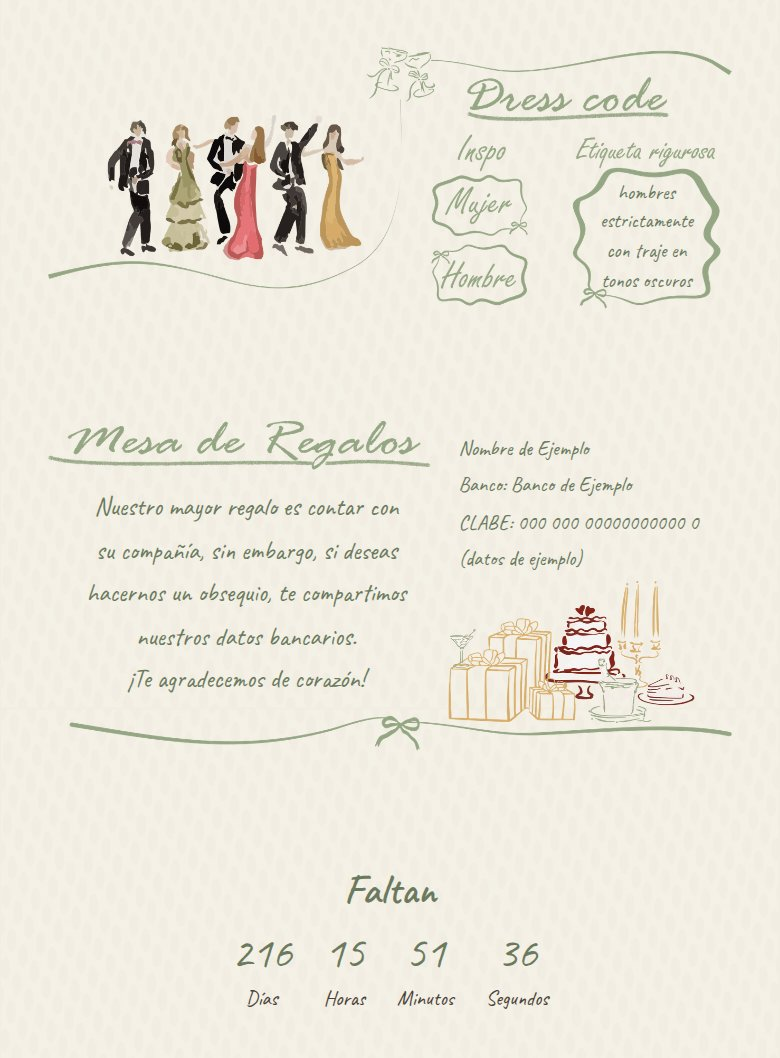
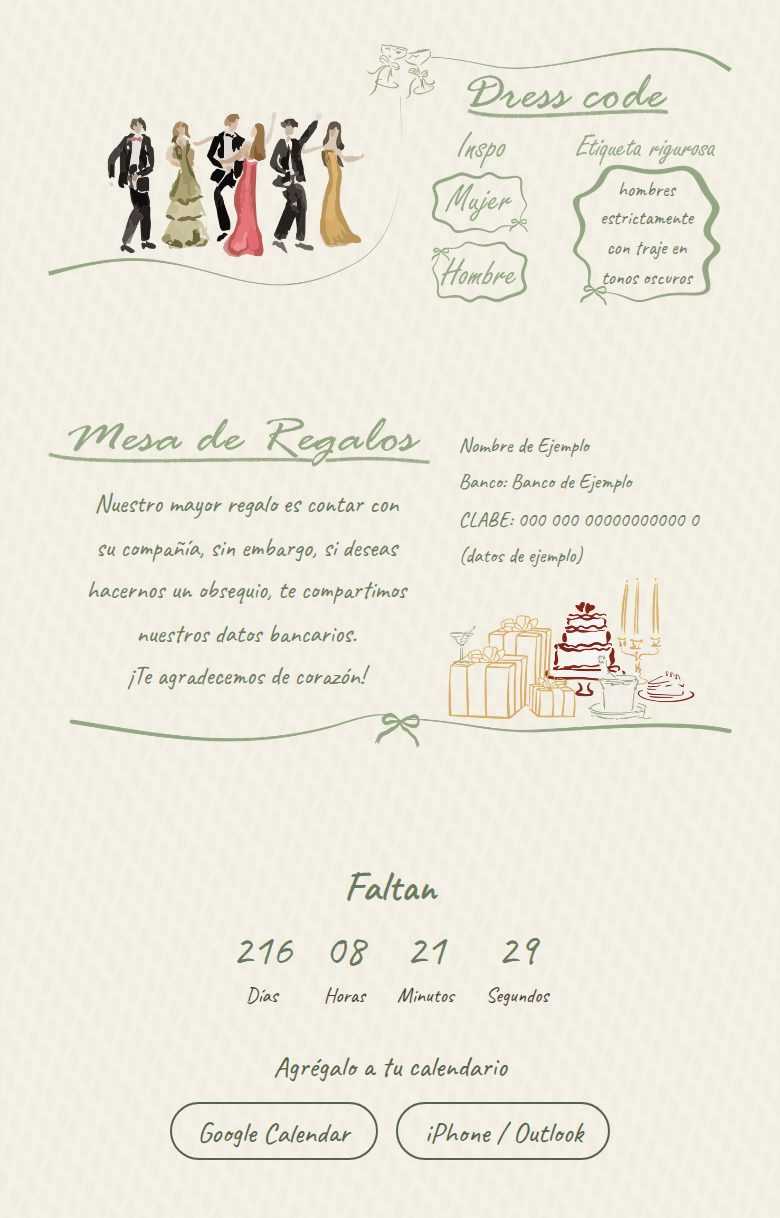
[ADD] Add-to-calendar links under the countdown
- The build plugin turns the config into one event (from date, lasting
  the new calendar.hours, at the ceremony venue, with both venues and
  the invitation link) and makes a Google Calendar link and boda.ics,
  which the dev server serves and the build writes to dist/: a real
  text/calendar file is what iPhones offer to add
- The .ics follows RFC 5545: escaped text, CRLF line endings and lines
  folded at 75 bytes without splitting accented characters
- The links hide along with the countdown once the day arrives
- Tests for the link, the file and the dev server; README, with the
  dress code, gifts and countdown screenshot retaken to show the links

diff --git a/plugins/vite-plugin-invitation.js b/plugins/vite-plugin-invitation.js
@@ -9,10 +9,15 @@
  *   in attributes         newlines collapse to spaces, arrays join with ", "
  *
  * An unknown placeholder fails the build instead of showing "{{ … }}" to guests.
+ *
+ * It also makes the "Agregar al calendario" event: a Google Calendar link for the page,
+ * and an .ics file (iPhone, Outlook) that the dev server serves and the build writes to
+ * dist/, as a real file served as text/calendar is what iPhones offer to add.
  */
 
 const PLACEHOLDER = /\{\{\s*([\w.]+)\s*\}\}/g;
 const TAG = /<[^>]+>/g;
+const CALENDAR_FILE = 'boda.ics';
 
 const MONTHS = [
 	'Enero',
@@ -75,17 +80,129 @@ function initial(name) {
 // Values derived from the config, so index.html can stay free of logic.
 function buildContext(config) {
 	const { partner1, partner2, joiner } = config.couple;
+	const site = { ...config.site, url: config.site.url.replace(/\/+$/, '') };
+	const names = `${partner1} ${joiner} ${partner2}`;
+	const event = calendarEvent(config, site.url, names);
 
 	return {
 		...config,
-		site: { ...config.site, url: config.site.url.replace(/\/+$/, '') },
+		site,
 		couple: {
 			...config.couple,
-			names: `${partner1} ${joiner} ${partner2}`,
+			names,
 			initials: { partner1: initial(partner1), partner2: initial(partner2) },
 		},
 		date: dateParts(config.date),
+		calendar: {
+			...config.calendar,
+			google: googleCalendarUrl(event),
+			// The site's base path comes from site.url, as in vite.config.js.
+			ics: `${new URL(site.url).pathname.replace(/\/?$/, '/')}${CALENDAR_FILE}`,
+		},
+		event,
 	};
+}
+
+// ---- Calendar ----
+// One event from the ceremony start, lasting calendar.hours, at the ceremony venue, with
+// both venues and the invitation link in its description.
+function calendarEvent(config, siteUrl, names) {
+	const hours = Number(config.calendar?.hours);
+
+	if (!(hours > 0)) {
+		throw new Error(
+			'[invitation] "calendar.hours" must be how long the celebration lasts, in hours (e.g. 8).',
+		);
+	}
+
+	const oneLine = (text) => String(text).replaceAll('\n', ' ');
+	const start = new Date(config.date);
+	const { ceremony, reception } = config;
+
+	return {
+		title: `Boda de ${names}`,
+		start,
+		end: new Date(start.getTime() + hours * 60 * 60 * 1000),
+		location: oneLine(ceremony.venue),
+		details: [
+			`Ceremonia: ${oneLine(ceremony.venue)}, ${ceremony.time}`,
+			ceremony.mapsUrl,
+			'',
+			`Recepción: ${oneLine(reception.venue)}, ${reception.time}`,
+			reception.mapsUrl,
+			'',
+			`Invitación: ${siteUrl}/`,
+		].join('\n'),
+		url: `${siteUrl}/`,
+		uid: `boda-${utcStamp(start)}@${new URL(siteUrl).hostname}`,
+	};
+}
+
+// 2027-05-15T17:00:00-06:00 -> 20270515T230000Z, the UTC form both formats accept.
+function utcStamp(date) {
+	return date
+		.toISOString()
+		.replace(/[-:]/g, '')
+		.replace(/\.\d{3}/, '');
+}
+
+function googleCalendarUrl(event) {
+	const params = {
+		action: 'TEMPLATE',
+		text: event.title,
+		dates: `${utcStamp(event.start)}/${utcStamp(event.end)}`,
+		details: event.details,
+		location: event.location,
+	};
+	const query = Object.entries(params)
+		.map(([key, value]) => `${key}=${encodeURIComponent(value)}`)
+		.join('&');
+
+	return `https://calendar.google.com/calendar/render?${query}`;
+}
+
+// An iCalendar (RFC 5545) file with the event, CRLF line endings included.
+function icsFile(event, now = new Date()) {
+	// Text values escape backslashes, semicolons, commas and line breaks.
+	const text = (value) => value.replace(/[\\;,]/g, '\\$&').replaceAll('\n', '\\n');
+	const lines = [
+		'BEGIN:VCALENDAR',
+		'VERSION:2.0',
+		'PRODID:-//wedding-invitation-template//ES',
+		'CALSCALE:GREGORIAN',
+		'METHOD:PUBLISH',
+		'BEGIN:VEVENT',
+		`UID:${event.uid}`,
+		`DTSTAMP:${utcStamp(now)}`,
+		`DTSTART:${utcStamp(event.start)}`,
+		`DTEND:${utcStamp(event.end)}`,
+		`SUMMARY:${text(event.title)}`,
+		`LOCATION:${text(event.location)}`,
+		`DESCRIPTION:${text(event.details)}`,
+		`URL:${event.url}`,
+		'END:VEVENT',
+		'END:VCALENDAR',
+	];
+
+	return `${lines.map(foldLine).join('\r\n')}\r\n`;
+}
+
+// iCalendar lines can't exceed 75 bytes: longer ones continue on lines that start with a
+// space, split between characters (never inside one, as accents take two bytes).
+function foldLine(line) {
+	const parts = [''];
+
+	for (const character of line) {
+		const limit = parts.length === 1 ? 75 : 74;
+
+		if (Buffer.byteLength(parts.at(-1) + character) > limit) {
+			parts.push('');
+		}
+
+		parts[parts.length - 1] += character;
+	}
+
+	return parts.join('\r\n ');
 }
 
 function lookup(context, path) {
@@ -102,6 +219,7 @@ function lookup(context, path) {
 
 export default function invitation(config) {
 	const context = buildContext(config);
+	const calendarFile = icsFile(context.event);
 
 	const asText = (path) => {
 		const value = lookup(context, path);
@@ -118,6 +236,20 @@ export default function invitation(config) {
 
 	return {
 		name: 'invitation-config',
+		configureServer(server) {
+			server.middlewares.use((req, res, next) => {
+				if (!req.url?.split('?')[0].endsWith(`/${CALENDAR_FILE}`)) {
+					next();
+					return;
+				}
+
+				res.setHeader('Content-Type', 'text/calendar; charset=utf-8');
+				res.end(calendarFile);
+			});
+		},
+		generateBundle() {
+			this.emitFile({ type: 'asset', fileName: CALENDAR_FILE, source: calendarFile });
+		},
 		transformIndexHtml: {
 			// Run before Vite resolves src/href URLs, so it sees the real image paths.
 			order: 'pre',

diff --git a/plugins/vite-plugin-invitation.test.js b/plugins/vite-plugin-invitation.test.js
@@ -6,11 +6,25 @@ const config = {
 	site: { url: 'https://example.com/boda/', description: 'Línea 1\nLínea 2' },
 	couple: { partner1: 'ángela', partner2: 'Daniel', joiner: '&' },
 	date: '2027-05-15T17:00:00-06:00',
+	ceremony: {
+		venue: 'Parroquia de San José',
+		time: '5:00 pm',
+		mapsUrl: 'https://maps.example/a',
+	},
+	reception: { venue: 'Jardín Las Flores', time: '7:30 pm', mapsUrl: 'https://maps.example/b' },
+	calendar: { hours: 8 },
 	gifts: { details: ['Banco: <Ejemplo>', 'CLABE: 000'] },
 };
 
 function render(html, overrides = {}) {
 	return invitation({ ...config, ...overrides }).transformIndexHtml.handler(html);
+}
+
+// The .ics file as the build writes it to dist/.
+function emittedCalendar() {
+	let file;
+	invitation(config).generateBundle.call({ emitFile: (emitted) => (file = emitted) });
+	return file;
 }
 
 test('fills text placeholders, escaping HTML and turning line breaks into <br />', () => {
@@ -60,4 +74,62 @@ test('fails the build on a date without a time', () => {
 
 test('fails the build when a partner has no name', () => {
 	assert.throws(() => render('', { couple: { ...config.couple, partner2: ' ' } }), /partner/);
+});
+
+test('links to a Google Calendar event from the ceremony start, lasting calendar.hours', () => {
+	const href = render('{{ calendar.google }}');
+	const url = new URL(href.replaceAll('&amp;', '&'));
+
+	assert.equal(url.origin + url.pathname, 'https://calendar.google.com/calendar/render');
+	assert.equal(url.searchParams.get('dates'), '20270515T230000Z/20270516T070000Z');
+	assert.equal(url.searchParams.get('text'), 'Boda de ángela & Daniel');
+	assert.equal(url.searchParams.get('location'), 'Parroquia de San José');
+	assert.match(url.searchParams.get('details'), /\nRecepción: Jardín Las Flores, 7:30 pm\n/);
+});
+
+test('links the .ics file under the base path of site.url', () => {
+	assert.equal(render('{{ calendar.ics }}'), '/boda/boda.ics');
+	assert.equal(
+		render('{{ calendar.ics }}', { site: { url: 'https://boda.example' } }),
+		'/boda.ics',
+	);
+});
+
+test('writes an iCalendar file with escaped text and lines of at most 75 bytes', () => {
+	const { fileName, source } = emittedCalendar();
+	const lines = source.split('\r\n');
+	const unfolded = source.replaceAll('\r\n ', '');
+
+	assert.equal(fileName, 'boda.ics');
+	assert.ok(source.endsWith('\r\n') && !/[^\r]\n/.test(source), 'CRLF line endings only');
+	assert.ok(
+		lines.every((line) => Buffer.byteLength(line) <= 75),
+		'lines folded at 75 bytes',
+	);
+	assert.match(unfolded, /\r\nDTSTART:20270515T230000Z\r\nDTEND:20270516T070000Z\r\n/);
+	assert.match(unfolded, /\r\nSUMMARY:Boda de ángela & Daniel\r\n/);
+	assert.match(
+		unfolded,
+		/\r\nDESCRIPTION:Ceremonia: Parroquia de San José\\, 5:00 pm\\nhttps:\/\/maps\.example\/a\\n/,
+	);
+});
+
+test('serves the .ics file from the dev server', () => {
+	let middleware;
+	invitation(config).configureServer({ middlewares: { use: (fn) => (middleware = fn) } });
+
+	const response = { headers: {}, setHeader: (k, v) => (response.headers[k] = v) };
+	response.end = (body) => (response.body = body);
+	middleware({ url: '/boda/boda.ics?v=2' }, response, () => assert.fail('not served'));
+
+	assert.equal(response.headers['Content-Type'], 'text/calendar; charset=utf-8');
+	assert.match(response.body, /^BEGIN:VCALENDAR\r\n/);
+
+	let passedOn = false;
+	middleware({ url: '/boda/' }, response, () => (passedOn = true));
+	assert.ok(passedOn, 'other requests go on to Vite');
+});
+
+test('fails the build without calendar.hours', () => {
+	assert.throws(() => render('', { calendar: {} }), /calendar\.hours/);
 });

diff --git a/src/styles/main.scss b/src/styles/main.scss
@@ -161,6 +161,42 @@ body {
 		font-weight: 600;
 		color: var(--color-sage-dark);
 	}
+
+	&__calendar {
+		margin: 1.25rem 0 0;
+		font-family: var(--font-detail);
+		font-size: 4.2cqw;
+		color: var(--color-sage-deep);
+	}
+
+	&__calendar-label {
+		display: block;
+		margin-bottom: 0.4rem;
+	}
+
+	&__calendar-link {
+		display: inline-block;
+		margin: 0.2rem;
+		padding: 0.3em 0.9em;
+		border: 1px solid currentcolor;
+		border-radius: 999px;
+		color: inherit;
+		text-decoration: none;
+		transition:
+			background-color 0.15s ease,
+			color 0.15s ease;
+
+		&:hover,
+		&:focus-visible {
+			background-color: var(--color-sage-deep);
+			color: var(--color-bg);
+		}
+
+		&:focus-visible {
+			outline: 2px solid var(--color-sage-deep);
+			outline-offset: 2px;
+		}
+	}
 }
 
 // ---- Intro ----

diff --git a/index.html b/index.html
@@ -324,6 +324,21 @@
 				</div>
 				<!-- Replaces the countdown once the date arrives -->
 				<p class="countdown__done" id="cd-done" hidden>¡Llegó el gran día!</p>
+
+				<!-- The event comes from the config (calendar.hours); hidden after the date -->
+				<p class="countdown__calendar" id="cd-calendar">
+					<span class="countdown__calendar-label">Agrégalo a tu calendario</span>
+					<a
+						class="countdown__calendar-link"
+						href="{{ calendar.google }}"
+						target="_blank"
+						rel="noopener"
+						>Google Calendar</a
+					>
+					<a class="countdown__calendar-link" href="{{ calendar.ics }}"
+						>iPhone / Outlook</a
+					>
+				</p>
 			</section>
 
 			<!-- Confirmación: RSVP form -->

diff --git a/src/scripts/countdown.js b/src/scripts/countdown.js
@@ -17,10 +17,12 @@ export function initCountdown() {
 		const now = new Date();
 		const diff = WEDDING_DATE - now;
 
-		// The day has come: swap the zeros for the message in index.html.
+		// The day has come: swap the zeros (and the calendar links) for the message in
+		// index.html.
 		if (diff <= 0) {
 			document.querySelector('.countdown__label').hidden = true;
 			document.querySelector('.countdown__grid').hidden = true;
+			document.getElementById('cd-calendar').hidden = true;
 			document.getElementById('cd-done').hidden = false;
 			clearInterval(timer);
 			return;

diff --git a/src/invitation.config.js b/src/invitation.config.js
@@ -46,6 +46,14 @@ export default {
 		mapsUrl: 'https://www.google.com/maps/search/?api=1&query=Sal%C3%B3n+de+Ejemplo',
 	},
 
+	// "Agregar al calendario" under the countdown: a Google Calendar link and an .ics file
+	// (iPhone, Outlook) for one event that starts at `date`, at the ceremony venue, with
+	// both venues and the invitation link in its description.
+	calendar: {
+		// How long the celebration lasts, in hours.
+		hours: 8,
+	},
+
 	dressCode: {
 		// Drawn into dresscode.webp; repeated here as text for screen readers.
 		style: 'Etiqueta rigurosa',

diff --git a/README.md b/README.md
@@ -16,9 +16,9 @@ Phone viewport (390px wide) with the placeholder content.
 | :------------------------------------------------------------------------------------------------------------------------------------------------------------------------------------------------------: | :-----------------------------------------------------------------------------------------------------------------------------------------------------------: |
 | <img src="docs/screenshots/envelope.jpg" width="260" alt="Envelope sealed with a sage wax seal showing the initials V and D, addressed to Familia Pérez, under the names Valeria & Daniel and the date"> | <img src="docs/screenshots/envelope-opening.jpg" width="260" alt="The opened envelope with its patterned liner and a card reading ¡Nos casamos! sliding out"> |
 
-|                                                                    Hero and ceremony                                                                     |                                                             Dress code, gifts and countdown                                                             |                                                          RSVP                                                           |
-| :------------------------------------------------------------------------------------------------------------------------------------------------------: | :-----------------------------------------------------------------------------------------------------------------------------------------------------: | :---------------------------------------------------------------------------------------------------------------------: |
-| <img src="docs/screenshots/hero-and-ceremony.jpg" width="260" alt="Header with the couple's names and the date, the welcome text and the ceremony card"> | <img src="docs/screenshots/dress-code-gifts-countdown.jpg" width="260" alt="Dress code panel, gift table with example bank details, and the countdown"> | <img src="docs/screenshots/rsvp.jpg" width="260" alt="RSVP form with name, phone and the Sí/No toggles for each event"> |
+|                                                                    Hero and ceremony                                                                     |                                                                            Dress code, gifts and countdown                                                                             |                                                          RSVP                                                           |
+| :------------------------------------------------------------------------------------------------------------------------------------------------------: | :------------------------------------------------------------------------------------------------------------------------------------------------------------------------------------: | :---------------------------------------------------------------------------------------------------------------------: |
+| <img src="docs/screenshots/hero-and-ceremony.jpg" width="260" alt="Header with the couple's names and the date, the welcome text and the ceremony card"> | <img src="docs/screenshots/dress-code-gifts-countdown.jpg" width="260" alt="Dress code panel, gift table with example bank details, and the countdown with its add-to-calendar links"> | <img src="docs/screenshots/rsvp.jpg" width="260" alt="RSVP form with name, phone and the Sí/No toggles for each event"> |
 
 ## Features
 
@@ -28,6 +28,7 @@ Phone viewport (390px wide) with the placeholder content.
 - **Mobile-first illustrated layout:** a single column (480px max) where text sits on top of the illustrations, positioned with percentages and sized with container query units (`cqw`), so it scales with the artwork on any screen.
 - **Scroll-reveal animations** with `IntersectionObserver`, starting once the envelope is open. Blocks that come into view together appear one after another. They are opt-in: content only starts hidden when the visitor allows motion (`prefers-reduced-motion: no-preference`) and JavaScript is running, so it's never stuck invisible. With reduced motion, the envelope simply fades away.
 - **Live countdown** to the ceremony, read from the config, replaced by "¡Llegó el gran día!" once the day comes.
+- **Add to calendar:** under the countdown, a Google Calendar link and an `.ics` file for iPhone and Outlook, both made from the config at build time, with the two venues and the invitation link in the event.
 - **RSVP form** with Sí/No toggles per event, phone formatting (`+52 555 000 00 00`), validation messages in the form itself rather than pop-up alerts, a honeypot field against bots and two backends: a network-free **demo** mode and a **Google Apps Script** mode that writes each answer to a Google Sheet.
 - **Link previews that work on WhatsApp:** the page title and Open Graph tags are in the static HTML, generated from the config by a small Vite plugin. Link-preview crawlers don't run JavaScript.
 - **One config file:** `src/invitation.config.js`. A placeholder without a matching value fails the build instead of shipping `{{ … }}` to guests.
@@ -58,6 +59,7 @@ npm run dev # then open the URL Vite prints (it includes the base path from site
 | `date`                                                | Ceremony start in ISO 8601 with the venue's UTC offset, e.g. `2027-05-15T17:00:00-06:00`. Drives the countdown and every displayed date.                                                                                |
 | `intro`                                               | Welcome text next to the photo.                                                                                                                                                                                         |
 | `ceremony`, `reception`                               | Venue name, time and Google Maps link.                                                                                                                                                                                  |
+| `calendar.hours`                                      | How long the celebration lasts. The "Agrégalo a tu calendario" event starts at `date`, at the ceremony venue, and lists both venues and the invitation link.                                                            |
 | `dressCode`                                           | Dress code (read by screen readers), the note, and the inspiration links behind the "Mujer" / "Hombre" buttons.                                                                                                         |
 | `gifts`                                               | Message and bank or gift-registry details, one line each.                                                                                                                                                               |
 | `rsvp`                                                | Intro text, note (e.g. "¡No niños!") and confirmation message.                                                                                                                                                          |
@@ -205,7 +207,7 @@ A pre-commit hook (Husky + lint-staged) lints and formats the staged files. GitH
 
 ## How the config gets into the HTML
 
-`index.html` contains placeholders such as `{{ couple.names }}` and `{{ ceremony.venue }}`. The plugin in `plugins/vite-plugin-invitation.js` hooks into Vite's `transformIndexHtml` before Vite resolves asset URLs and replaces each placeholder with the matching value from `src/invitation.config.js`. Values are HTML-escaped, and line breaks are handled differently in text and in attributes. The plugin also derives a few values, such as the couple's display name, their initials for the envelope's seal and the Spanish date parts used in the title and preview.
+`index.html` contains placeholders such as `{{ couple.names }}` and `{{ ceremony.venue }}`. The plugin in `plugins/vite-plugin-invitation.js` hooks into Vite's `transformIndexHtml` before Vite resolves asset URLs and replaces each placeholder with the matching value from `src/invitation.config.js`. Values are HTML-escaped, and line breaks are handled differently in text and in attributes. The plugin also derives a few values, such as the couple's display name, their initials for the envelope's seal, the Spanish date parts used in the title and preview, and the Google Calendar link. It writes the calendar event to `boda.ics` too: served by the dev server, and written to `dist/` by the build. A real file served as `text/calendar` is what iPhones offer to add to the calendar.
 
 Doing this at build time rather than in the browser means the page title, the Open Graph tags and every visible text are in the static HTML that WhatsApp's crawler fetches, and the content doesn't depend on JavaScript to appear.
 
